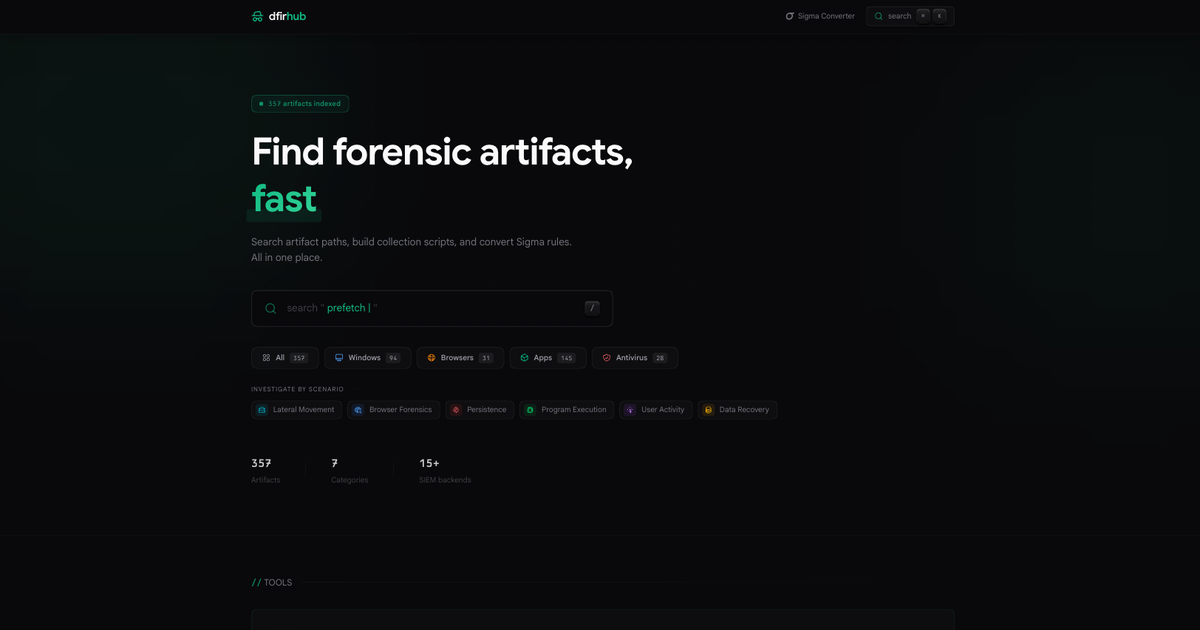
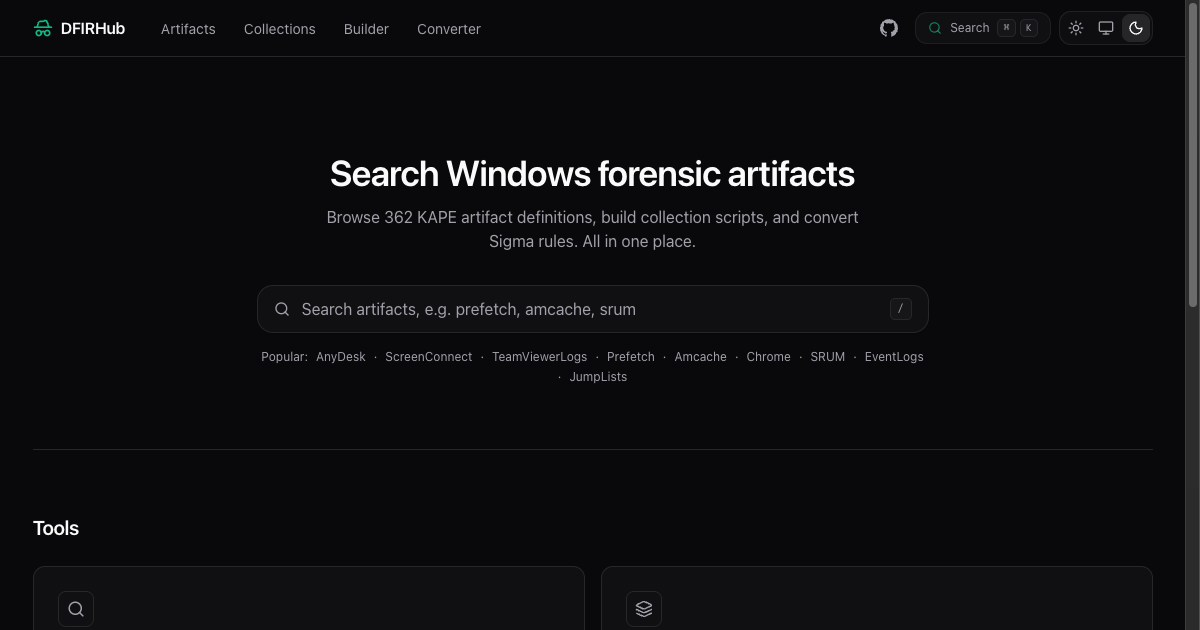
fix(ui): polish responsive navigation and page metadata

diff --git a/src/components/layout/Header.tsx b/src/components/layout/Header.tsx
@@ -1,4 +1,13 @@
-import { HatGlasses, Menu, X } from "lucide-react";
+import {
+  ArrowRight,
+  FileSearch,
+  HatGlasses,
+  Layers,
+  Menu,
+  Sigma,
+  Wrench,
+  X,
+} from "lucide-react";
 import { useEffect, useRef, useState } from "react";
 
 import { Search } from "../search/Search";
@@ -22,10 +31,10 @@ interface HeaderProps {
 }
 
 const navItems = [
-  { href: "/artifacts", label: "Artifacts" },
-  { href: "/collections", label: "Collections" },
-  { href: "/builder", label: "Builder" },
-  { href: "/converter", label: "Converter" },
+  { href: "/artifacts", label: "Artifacts", Icon: FileSearch },
+  { href: "/collections", label: "Collections", Icon: Layers },
+  { href: "/builder", label: "Builder", Icon: Wrench },
+  { href: "/converter", label: "Converter", Icon: Sigma },
 ];
 
 export function Header({ showSearch = true, currentPath }: HeaderProps) {
@@ -47,6 +56,20 @@ export function Header({ showSearch = true, currentPath }: HeaderProps) {
 
     document.addEventListener("keydown", handleEscape);
     return () => document.removeEventListener("keydown", handleEscape);
+  }, [mobileMenuOpen]);
+
+  // Keep the page fixed while the mobile drawer is open.
+  useEffect(() => {
+    if (!mobileMenuOpen) {
+      return;
+    }
+
+    const previousOverflow = document.body.style.overflow;
+    document.body.style.overflow = "hidden";
+
+    return () => {
+      document.body.style.overflow = previousOverflow;
+    };
   }, [mobileMenuOpen]);
 
   // Focus trap for mobile menu
@@ -86,7 +109,7 @@ export function Header({ showSearch = true, currentPath }: HeaderProps) {
   }, [mobileMenuOpen]);
 
   return (
-    <header className="glass-header sticky top-0 z-50 w-full">
+    <header className="glass-header relative sticky top-0 z-50 w-full">
       <div className="mx-auto flex h-14 max-w-6xl items-center gap-6 px-4">
         {/* Logo */}
         <a
@@ -144,7 +167,9 @@ export function Header({ showSearch = true, currentPath }: HeaderProps) {
             aria-label={
               mobileMenuOpen ? "Close navigation menu" : "Open navigation menu"
             }
-            className="focus-ring flex h-9 w-9 items-center justify-center rounded-lg text-muted-foreground transition-colors hover:bg-overlay/[0.05] hover:text-foreground md:hidden"
+            className={`focus-ring flex h-9 w-9 items-center justify-center rounded-lg text-muted-foreground transition-colors hover:bg-overlay/[0.05] hover:text-foreground md:hidden ${
+              mobileMenuOpen ? "bg-overlay/[0.06] text-foreground" : ""
+            }`}
             onClick={() => setMobileMenuOpen((prev) => !prev)}
             ref={menuButtonRef}
             type="button"
@@ -161,46 +186,99 @@ export function Header({ showSearch = true, currentPath }: HeaderProps) {
       {/* Mobile Navigation */}
       <div
         aria-hidden={!mobileMenuOpen}
-        aria-label="Mobile navigation"
-        className={`glass-strong overflow-hidden border-t transition-all duration-300 ease-out md:hidden ${
-          mobileMenuOpen ? "max-h-96 opacity-100" : "max-h-0 opacity-0"
+        className={`absolute inset-x-0 top-full md:hidden ${
+          mobileMenuOpen ? "pointer-events-auto" : "pointer-events-none"
         }`}
         id="mobile-menu"
-        ref={mobileNavRef}
-        role="menu"
       >
-        <nav className="space-y-1 px-4 py-3">
-          {navItems.map((item) => (
-            <a
-              aria-current={isActive(item.href) ? "page" : undefined}
-              className={`focus-ring flex items-center rounded-lg px-3 py-2.5 text-sm transition-colors hover:bg-overlay/[0.04] ${
-                isActive(item.href)
-                  ? "font-medium text-foreground"
-                  : "text-muted-foreground hover:text-foreground"
-              }`}
-              href={item.href}
-              key={item.href}
-              onClick={() => setMobileMenuOpen(false)}
-              role="menuitem"
-              tabIndex={mobileMenuOpen ? 0 : -1}
-            >
-              {item.label}
-            </a>
-          ))}
+        <button
+          aria-label="Close navigation menu"
+          className={`fixed inset-x-0 bottom-0 top-14 z-40 bg-black/20 transition-opacity duration-200 ${
+            mobileMenuOpen ? "opacity-100" : "pointer-events-none opacity-0"
+          }`}
+          onClick={() => {
+            setMobileMenuOpen(false);
+            menuButtonRef.current?.focus();
+          }}
+          type="button"
+        />
 
-          <a
-            className="focus-ring flex items-center rounded-lg px-3 py-2.5 text-muted-foreground text-sm transition-colors hover:bg-overlay/[0.04] hover:text-foreground"
-            href="https://github.com/LasCC/DFIRHub"
-            onClick={() => setMobileMenuOpen(false)}
-            rel="noopener noreferrer"
-            role="menuitem"
-            tabIndex={mobileMenuOpen ? 0 : -1}
-            target="_blank"
-          >
-            GitHub
-            <span className="sr-only">(opens in new tab)</span>
-          </a>
-        </nav>
+        <div
+          className={`glass-strong relative z-50 mx-3 mt-2 max-h-[calc(100vh-5rem)] overflow-y-auto rounded-xl p-2 transition-[opacity,transform,visibility] duration-200 ease-out ${
+            mobileMenuOpen
+              ? "visible translate-y-0 opacity-100"
+              : "invisible -translate-y-2 opacity-0"
+          }`}
+          ref={mobileNavRef}
+        >
+          <nav aria-label="Mobile navigation" className="space-y-1">
+            <p className="px-3 pb-2 pt-1 text-[11px] font-semibold uppercase tracking-[0.14em] text-muted-foreground/70">
+              Navigate
+            </p>
+
+            {navItems.map((item) => {
+              const Icon = item.Icon;
+              const active = isActive(item.href);
+
+              return (
+                <a
+                  aria-current={active ? "page" : undefined}
+                  className={`group focus-ring flex h-11 items-center gap-3 rounded-lg px-3 text-sm transition-colors ${
+                    active
+                      ? "bg-primary/[0.08] font-medium text-foreground"
+                      : "text-muted-foreground hover:bg-overlay/[0.05] hover:text-foreground"
+                  }`}
+                  href={item.href}
+                  key={item.href}
+                  onClick={() => setMobileMenuOpen(false)}
+                  tabIndex={mobileMenuOpen ? 0 : -1}
+                >
+                  <span
+                    className={`flex h-8 w-8 shrink-0 items-center justify-center rounded-md border ${
+                      active
+                        ? "border-primary/30 bg-primary/[0.1] text-primary"
+                        : "border-border bg-overlay/[0.03] text-muted-foreground group-hover:text-foreground"
+                    }`}
+                  >
+                    <Icon aria-hidden="true" className="h-4 w-4" />
+                  </span>
+                  <span>{item.label}</span>
+                  <ArrowRight
+                    aria-hidden="true"
+                    className={`ml-auto h-4 w-4 transition-opacity ${
+                      active
+                        ? "text-primary opacity-100"
+                        : "text-muted-foreground opacity-40 group-hover:opacity-100"
+                    }`}
+                  />
+                </a>
+              );
+            })}
+
+            <div className="my-2 border-t border-border" />
+
+            <a
+              className="group focus-ring flex h-11 items-center gap-3 rounded-lg px-3 text-sm text-muted-foreground transition-colors hover:bg-overlay/[0.05] hover:text-foreground"
+              href="https://github.com/LasCC/DFIRHub"
+              onClick={() => setMobileMenuOpen(false)}
+              rel="noopener noreferrer"
+              tabIndex={mobileMenuOpen ? 0 : -1}
+              target="_blank"
+            >
+              <span className="flex h-8 w-8 shrink-0 items-center justify-center rounded-md border border-border bg-overlay/[0.03]">
+                <GitHubMark className="h-4 w-4" />
+              </span>
+              <span>
+                GitHub
+                <span className="sr-only">(opens in new tab)</span>
+              </span>
+              <ArrowRight
+                aria-hidden="true"
+                className="ml-auto h-4 w-4 text-muted-foreground opacity-40 transition-opacity group-hover:opacity-100"
+              />
+            </a>
+          </nav>
+        </div>
       </div>
     </header>
   );

diff --git a/src/components/ui/dialog.tsx b/src/components/ui/dialog.tsx
@@ -34,7 +34,7 @@ const DialogContent = React.forwardRef<
     <DialogOverlay />
     <DialogPrimitive.Content
       className={cn(
-        "glass-strong data-[state=closed]:fade-out-0 data-[state=open]:fade-in-0 data-[state=closed]:zoom-out-95 data-[state=open]:zoom-in-95 fixed top-[2%] sm:top-[8%] left-[50%] z-50 grid w-full max-w-md translate-x-[-50%] overflow-hidden rounded-xl duration-200 data-[state=closed]:animate-out data-[state=open]:animate-in sm:max-w-lg md:max-w-xl lg:max-w-2xl",
+        "glass-strong data-[state=closed]:fade-out-0 data-[state=open]:fade-in-0 data-[state=closed]:zoom-out-95 data-[state=open]:zoom-in-95 fixed top-16 sm:top-[8%] left-[50%] z-50 grid max-h-[calc(100dvh-5rem)] w-[calc(100vw-1.5rem)] max-w-md translate-x-[-50%] overflow-hidden rounded-xl duration-200 data-[state=closed]:animate-out data-[state=open]:animate-in sm:max-h-none sm:w-full sm:max-w-lg md:max-w-xl lg:max-w-2xl",
         className
       )}
       ref={ref}

diff --git a/src/styles/global.css b/src/styles/global.css
@@ -195,8 +195,8 @@
   --radius-xl: 16px;
 
   --font-sans:
-    system-ui, -apple-system, BlinkMacSystemFont, "Segoe UI", Roboto,
-    "Helvetica Neue", Arial, sans-serif;
+    system-ui, -apple-system, BlinkMacSystemFont, "Segoe UI Variable", "Segoe UI",
+    Roboto, "Helvetica Neue", Arial, sans-serif;
   --font-mono: "Berkeley Mono", ui-monospace, SFMono-Regular, Menlo, monospace;
 }
 
@@ -218,6 +218,7 @@
     background-color: var(--background);
     color: var(--foreground);
     font-family: var(--font-sans);
+    font-optical-sizing: auto;
     -webkit-font-smoothing: antialiased;
     -moz-osx-font-smoothing: grayscale;
     font-size: 15px;
